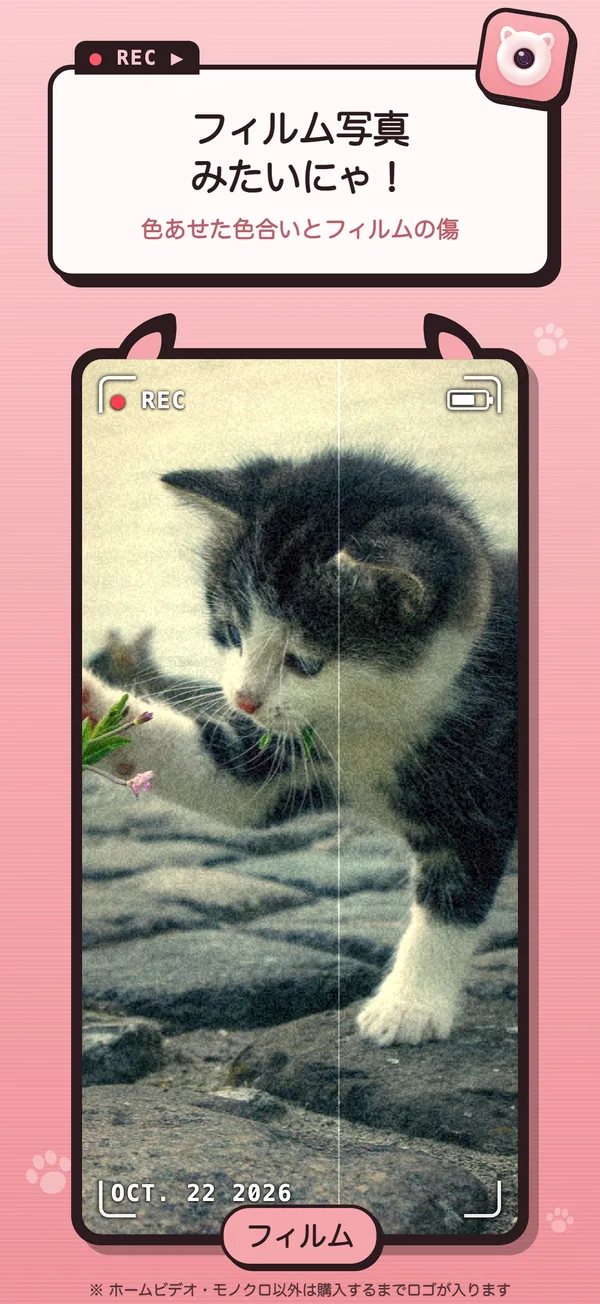
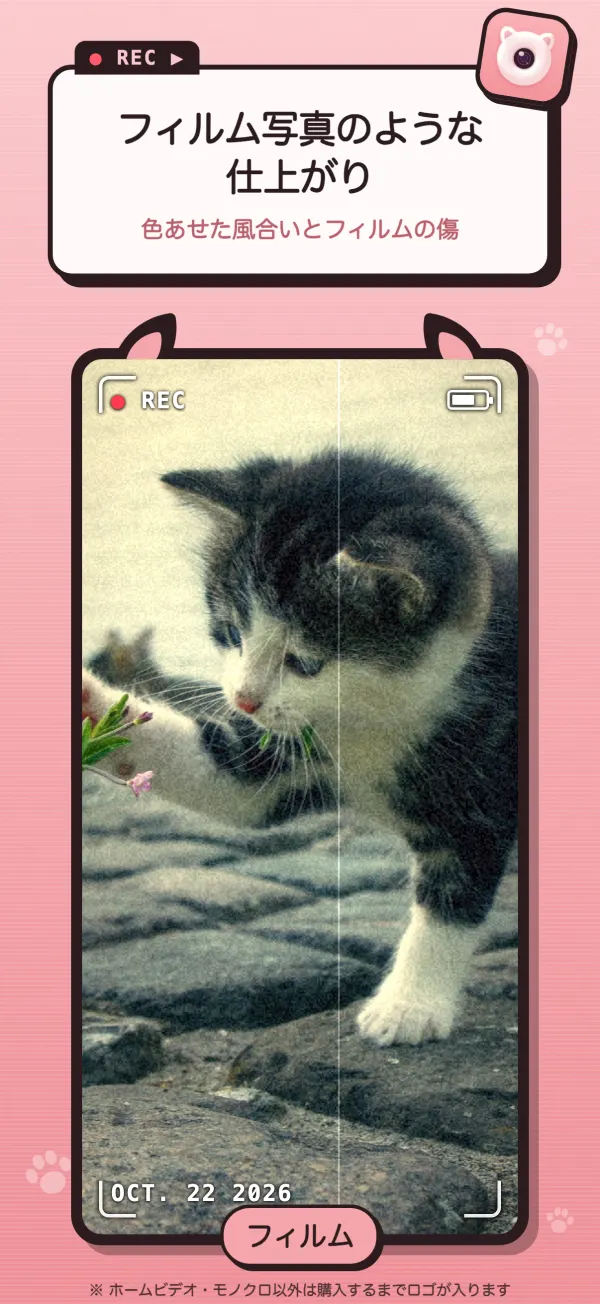
feat: 냥코더 소개 페이지 한국어·일본어 스크린샷을 냥체 뺀 새 이미지로 교체
스크린샷 16장을 앱스토어용 새 이미지에서 변환해 바꾸고,
이미지 설명(alt) 문구도 새 자막에 맞춰 고쳤다. 영어는 그대로다.

Changed region(s): [[0.21, 0.0613, 0.81, 0.184]]

diff --git a/ja/nyancorder/index.html b/ja/nyancorder/index.html
@@ -52,7 +52,7 @@
     </div>
   </aside>
   <div class="main">
-    <div class="shots"><figure class="shot" style="--rot:-1.5deg"><span class="tape"></span><img src="/assets/shots/nyancorder-ja-1.webp" alt="昔のビデオカメラ画質、画面はねこにゃ！ 撮るだけで思い出になるカメラ" loading="lazy"></figure><figure class="shot" style="--rot:1.2deg"><span class="tape"></span><img src="/assets/shots/nyancorder-ja-2.webp" alt="タップで写真、長押しで動画にゃ！ シャッターひとつでOK" loading="lazy"></figure><figure class="shot" style="--rot:-0.8deg"><span class="tape"></span><img src="/assets/shots/nyancorder-ja-3.webp" alt="フィルター7種類、横にスワイプにゃ！ ホームビデオとモノクロは無料" loading="lazy"></figure><figure class="shot" style="--rot:1.6deg"><span class="tape"></span><img src="/assets/shots/nyancorder-ja-4.webp" alt="緑色のナイトショットも あるにゃ！ Instagramのストーリーズにすぐ共有" loading="lazy"></figure><figure class="shot" style="--rot:-1.2deg"><span class="tape"></span><img src="/assets/shots/nyancorder-ja-5.webp" alt="使い捨てカメラ風に撮れるにゃ！ フラッシュを焚いたような明るさ" loading="lazy"></figure><figure class="shot" style="--rot:-1.5deg"><span class="tape"></span><img src="/assets/shots/nyancorder-ja-6.webp" alt="デジカメ風に撮れるにゃ！ くっきり鮮やかな色合い" loading="lazy"></figure><figure class="shot" style="--rot:1.2deg"><span class="tape"></span><img src="/assets/shots/nyancorder-ja-7.webp" alt="フィルム写真 みたいにゃ！ 色あせた色合いとフィルムの傷" loading="lazy"></figure><figure class="shot" style="--rot:-0.8deg"><span class="tape"></span><img src="/assets/shots/nyancorder-ja-8.webp" alt="グリッチ加工も あるにゃ！ 色がずれるグリッチ画面" loading="lazy"></figure></div>
+    <div class="shots"><figure class="shot" style="--rot:-1.5deg"><span class="tape"></span><img src="/assets/shots/nyancorder-ja-1.webp" alt="昔のビデオカメラ画質、画面はねこデザイン。撮るだけで思い出になるカメラ" loading="lazy"></figure><figure class="shot" style="--rot:1.2deg"><span class="tape"></span><img src="/assets/shots/nyancorder-ja-2.webp" alt="タップで写真、長押しで動画。シャッターひとつでOK" loading="lazy"></figure><figure class="shot" style="--rot:-0.8deg"><span class="tape"></span><img src="/assets/shots/nyancorder-ja-3.webp" alt="フィルター7種類、スワイプで切り替え。ホームビデオとモノクロは無料" loading="lazy"></figure><figure class="shot" style="--rot:1.6deg"><span class="tape"></span><img src="/assets/shots/nyancorder-ja-4.webp" alt="緑色のナイトショットもあります。Instagramストーリーにすぐ共有" loading="lazy"></figure><figure class="shot" style="--rot:-1.2deg"><span class="tape"></span><img src="/assets/shots/nyancorder-ja-5.webp" alt="使い捨てカメラ風に撮れます。フラッシュを焚いたような明るさ" loading="lazy"></figure><figure class="shot" style="--rot:-1.5deg"><span class="tape"></span><img src="/assets/shots/nyancorder-ja-6.webp" alt="デジカメ風に撮れます。くっきり鮮やかな色合い" loading="lazy"></figure><figure class="shot" style="--rot:1.2deg"><span class="tape"></span><img src="/assets/shots/nyancorder-ja-7.webp" alt="フィルム写真のような仕上がり。色あせた風合いとフィルムの傷" loading="lazy"></figure><figure class="shot" style="--rot:-0.8deg"><span class="tape"></span><img src="/assets/shots/nyancorder-ja-8.webp" alt="グリッチ加工もあります。色がずれるグリッチ画面" loading="lazy"></figure></div>
     <div class="shots-nav"><button type="button" class="prev" aria-label="前の画面" disabled><svg viewBox="0 0 24 24" aria-hidden="true"><path d="M15 5l-7 7 7 7"/></svg></button><span class="count" aria-live="polite">1 / 8</span><button type="button" class="next" aria-label="次の画面"><svg viewBox="0 0 24 24" aria-hidden="true"><path d="M9 5l7 7-7 7"/></svg></button></div>
     <ul class="promise"><li><b>ログインなしですぐ使えます</b><span>会員登録もアカウントも不要です。開いたらすぐ撮れます。</span></li><li><b>写真と動画は端末の中だけで処理されます</b><span>フィルターは端末内でかけられ、撮ったものは写真アプリに保存されます。サーバーには送りません。</span></li><li><b>広告もサブスクもありません</b><span>ホームビデオとモノクロは無料。ほかのフィルターは一度の購入でずっと使えます。</span></li></ul>
     <section class="faq"><h2>よくある質問</h2>

diff --git a/nyancorder/index.html b/nyancorder/index.html
@@ -52,7 +52,7 @@
     </div>
   </aside>
   <div class="main">
-    <div class="shots"><figure class="shot" style="--rot:-1.5deg"><span class="tape"></span><img src="/assets/shots/nyancorder-ko-1.webp" alt="화질은 옛날 캠코더, 화면은 고양이다냥! 찍으면 추억이 되는 카메라" loading="lazy"></figure><figure class="shot" style="--rot:1.2deg"><span class="tape"></span><img src="/assets/shots/nyancorder-ko-2.webp" alt="톡은 사진, 꾹은 영상이다냥! 셔터 하나로 끝" loading="lazy"></figure><figure class="shot" style="--rot:-0.8deg"><span class="tape"></span><img src="/assets/shots/nyancorder-ko-3.webp" alt="필터 7종, 옆으로 쓱 넘긴다냥! 홈비디오·흑백은 무료" loading="lazy"></figure><figure class="shot" style="--rot:1.6deg"><span class="tape"></span><img src="/assets/shots/nyancorder-ko-4.webp" alt="초록빛 나이트샷도 있다냥! 찍은 건 Instagram 스토리로 바로 공유" loading="lazy"></figure><figure class="shot" style="--rot:-1.2deg"><span class="tape"></span><img src="/assets/shots/nyancorder-ko-5.webp" alt="일회용 카메라 감성이다냥! 플래시 터진 듯 밝고 따뜻하게" loading="lazy"></figure><figure class="shot" style="--rot:-1.5deg"><span class="tape"></span><img src="/assets/shots/nyancorder-ko-6.webp" alt="디카 느낌 그대로다냥! 선명하고 쨍한 색감" loading="lazy"></figure><figure class="shot" style="--rot:1.2deg"><span class="tape"></span><img src="/assets/shots/nyancorder-ko-7.webp" alt="필름 느낌 그대로다냥! 빛바랜 색과 필름 스크래치" loading="lazy"></figure><figure class="shot" style="--rot:-0.8deg"><span class="tape"></span><img src="/assets/shots/nyancorder-ko-8.webp" alt="지지직 글리치도 있다냥! 색이 갈라지는 글리치 화면" loading="lazy"></figure></div>
+    <div class="shots"><figure class="shot" style="--rot:-1.5deg"><span class="tape"></span><img src="/assets/shots/nyancorder-ko-1.webp" alt="화질은 옛날 캠코더, 화면은 고양이. 찍으면 추억이 되는 카메라" loading="lazy"></figure><figure class="shot" style="--rot:1.2deg"><span class="tape"></span><img src="/assets/shots/nyancorder-ko-2.webp" alt="톡은 사진, 꾹은 영상. 셔터 하나로 끝" loading="lazy"></figure><figure class="shot" style="--rot:-0.8deg"><span class="tape"></span><img src="/assets/shots/nyancorder-ko-3.webp" alt="필터 7종, 옆으로 쓱 넘겨요. 홈비디오·흑백은 무료" loading="lazy"></figure><figure class="shot" style="--rot:1.6deg"><span class="tape"></span><img src="/assets/shots/nyancorder-ko-4.webp" alt="초록빛 나이트샷도 있어요. 찍은 건 Instagram 스토리로 바로 공유" loading="lazy"></figure><figure class="shot" style="--rot:-1.2deg"><span class="tape"></span><img src="/assets/shots/nyancorder-ko-5.webp" alt="일회용 카메라 감성. 플래시 터진 듯 밝고 따뜻하게" loading="lazy"></figure><figure class="shot" style="--rot:-1.5deg"><span class="tape"></span><img src="/assets/shots/nyancorder-ko-6.webp" alt="디카 느낌 그대로. 선명하고 쨍한 색감" loading="lazy"></figure><figure class="shot" style="--rot:1.2deg"><span class="tape"></span><img src="/assets/shots/nyancorder-ko-7.webp" alt="필름 느낌 그대로. 빛바랜 색과 필름 스크래치" loading="lazy"></figure><figure class="shot" style="--rot:-0.8deg"><span class="tape"></span><img src="/assets/shots/nyancorder-ko-8.webp" alt="지지직 글리치도 있어요. 색이 갈라지는 글리치 화면" loading="lazy"></figure></div>
     <div class="shots-nav"><button type="button" class="prev" aria-label="이전 화면" disabled><svg viewBox="0 0 24 24" aria-hidden="true"><path d="M15 5l-7 7 7 7"/></svg></button><span class="count" aria-live="polite">1 / 8</span><button type="button" class="next" aria-label="다음 화면"><svg viewBox="0 0 24 24" aria-hidden="true"><path d="M9 5l7 7-7 7"/></svg></button></div>
     <ul class="promise"><li><b>로그인 없이 바로 써요</b><span>가입도 계정도 없어요. 열자마자 바로 찍어요.</span></li><li><b>사진과 영상은 내 폰에서만 처리돼요</b><span>필터는 기기 안에서 입혀지고, 찍은 건 사진 앱에 저장돼요. 서버로 보내지 않아요.</span></li><li><b>광고도 구독도 없어요</b><span>홈비디오·흑백은 무료예요. 나머지 필터는 한 번만 사면 계속 써요.</span></li></ul>
     <section class="faq"><h2>자주 묻는 질문</h2>

diff --git a/build.py b/build.py
@@ -151,7 +151,7 @@ APPS = [
         'en': [('Use it without logging in', 'No sign-up, no account. Open it and start shooting.'), ('Photos and videos stay on your phone', 'Filters are applied on your device, and your shots are saved to the Photos app. Nothing goes to a server.'), ('No ads, no subscriptions', 'Home Video and B&W are free. The other filters unlock with a one-time purchase.')],
       },
       free={'ko': '무료로 시작 · 광고 없음 · 로그인 필요 없음', 'ja': '無料で始められます · 広告なし · ログイン不要', 'en': 'Free to start · No ads · No sign-in needed'},
-      alts={'ko': ['화질은 옛날 캠코더, 화면은 고양이다냥! 찍으면 추억이 되는 카메라', '톡은 사진, 꾹은 영상이다냥! 셔터 하나로 끝', '필터 7종, 옆으로 쓱 넘긴다냥! 홈비디오·흑백은 무료', '초록빛 나이트샷도 있다냥! 찍은 건 Instagram 스토리로 바로 공유', '일회용 카메라 감성이다냥! 플래시 터진 듯 밝고 따뜻하게', '디카 느낌 그대로다냥! 선명하고 쨍한 색감', '필름 느낌 그대로다냥! 빛바랜 색과 필름 스크래치', '지지직 글리치도 있다냥! 색이 갈라지는 글리치 화면'], 'en': ['Old-camcorder look, cat-themed screen! Shots that feel like memories', 'Tap for photos, hold for videos! One shutter does it all', '7 filters, just swipe! Home Video and B&W are free', 'Even a green Night Shot! Share straight to Instagram Stories', 'Disposable camera vibes! Bright, warm, flash-lit look', 'That classic digicam look! Crisp, punchy colors', 'Film look, just like that! Faded color and film scratches', 'Glitch filter, too! A glitchy, color-splitting picture'], 'ja': ['昔のビデオカメラ画質、画面はねこにゃ！ 撮るだけで思い出になるカメラ', 'タップで写真、長押しで動画にゃ！ シャッターひとつでOK', 'フィルター7種類、横にスワイプにゃ！ ホームビデオとモノクロは無料', '緑色のナイトショットも あるにゃ！ Instagramのストーリーズにすぐ共有', '使い捨てカメラ風に撮れるにゃ！ フラッシュを焚いたような明るさ', 'デジカメ風に撮れるにゃ！ くっきり鮮やかな色合い', 'フィルム写真 みたいにゃ！ 色あせた色合いとフィルムの傷', 'グリッチ加工も あるにゃ！ 色がずれるグリッチ画面']},
+      alts={'ko': ['화질은 옛날 캠코더, 화면은 고양이. 찍으면 추억이 되는 카메라', '톡은 사진, 꾹은 영상. 셔터 하나로 끝', '필터 7종, 옆으로 쓱 넘겨요. 홈비디오·흑백은 무료', '초록빛 나이트샷도 있어요. 찍은 건 Instagram 스토리로 바로 공유', '일회용 카메라 감성. 플래시 터진 듯 밝고 따뜻하게', '디카 느낌 그대로. 선명하고 쨍한 색감', '필름 느낌 그대로. 빛바랜 색과 필름 스크래치', '지지직 글리치도 있어요. 색이 갈라지는 글리치 화면'], 'en': ['Old-camcorder look, cat-themed screen! Shots that feel like memories', 'Tap for photos, hold for videos! One shutter does it all', '7 filters, just swipe! Home Video and B&W are free', 'Even a green Night Shot! Share straight to Instagram Stories', 'Disposable camera vibes! Bright, warm, flash-lit look', 'That classic digicam look! Crisp, punchy colors', 'Film look, just like that! Faded color and film scratches', 'Glitch filter, too! A glitchy, color-splitting picture'], 'ja': ['昔のビデオカメラ画質、画面はねこデザイン。撮るだけで思い出になるカメラ', 'タップで写真、長押しで動画。シャッターひとつでOK', 'フィルター7種類、スワイプで切り替え。ホームビデオとモノクロは無料', '緑色のナイトショットもあります。Instagramストーリーにすぐ共有', '使い捨てカメラ風に撮れます。フラッシュを焚いたような明るさ', 'デジカメ風に撮れます。くっきり鮮やかな色合い', 'フィルム写真のような仕上がり。色あせた風合いとフィルムの傷', 'グリッチ加工もあります。色がずれるグリッチ画面']},
       store=[],
       legal={'privacy': {'ko': '/nyancorder/privacy.html', 'ja': '/ja/nyancorder/privacy.html', 'en': '/en/nyancorder/privacy.html'}},
       faq={"ko": "<h3>무료로 쓸 수 있나요?</h3>\n<p>홈비디오·흑백 필터는 무료예요. 나머지 5종도 써 볼 수 있지만, 구매하기 전까지는 사진과 영상에 로고가 붙어요. 한 번 구매하면 7종 모두 로고 없이 계속 쓸 수 있어요.</p>\n<h3>사진과 영상은 어떻게 찍나요?</h3>\n<p>셔터를 톡 누르면 사진, 꾹 누르고 있으면 영상이 찍혀요. 폰을 가로로 들면 가로로 찍혀요.</p>\n<h3>찍은 건 어디에 저장되나요?</h3>\n<p>아이폰의 사진 앱에 저장돼요. 필터는 기기 안에서 입혀지고, 서버로는 보내지 않아요.</p>\n<h3>인스타그램 스토리에 바로 올릴 수 있나요?</h3>\n<p>네. 찍은 뒤 Instagram 스토리 버튼을 누르면 인스타그램으로 바로 넘어가요.</p>",
